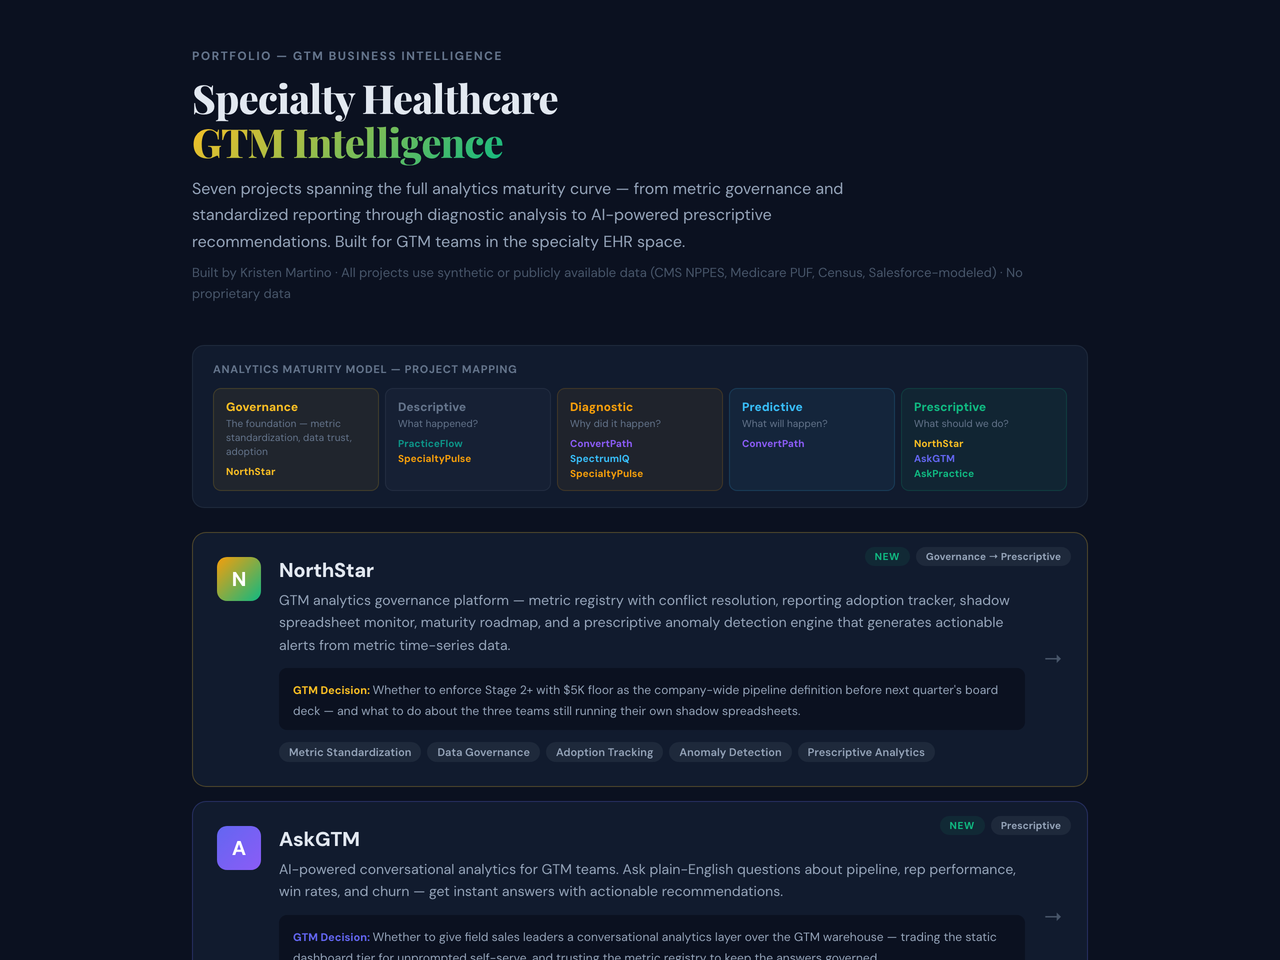
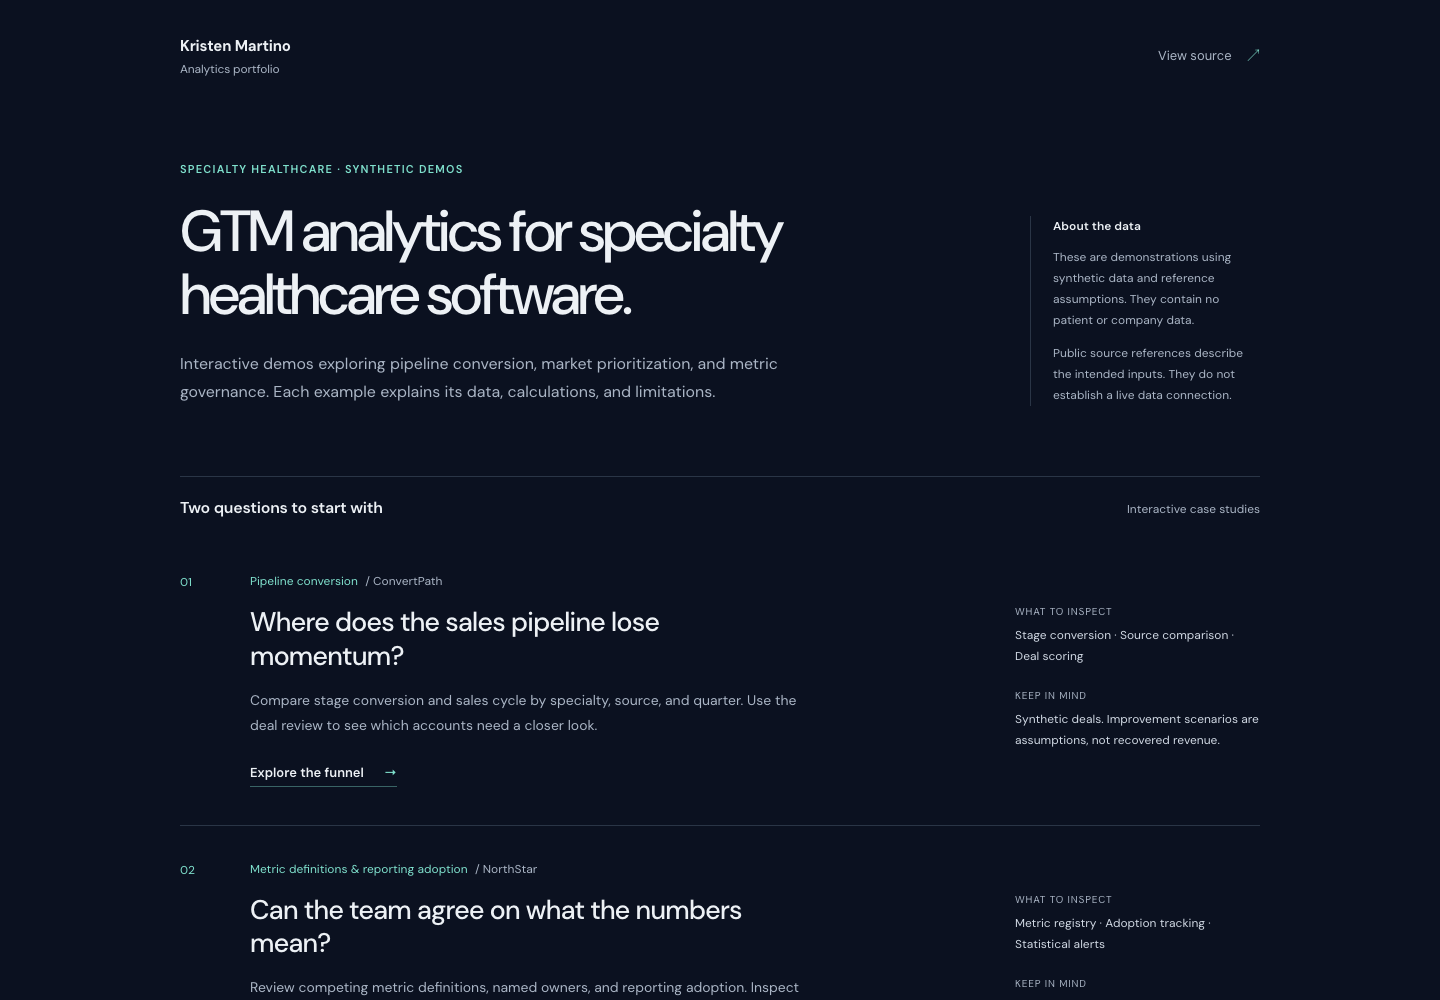
Clarify GTM data provenance and Orrery scoring

diff --git a/src/content/work.ts b/src/content/work.ts
@@ -281,7 +281,7 @@ export const projects: Project[] = [
     title: "GTM Healthcare Intelligence",
     category: "Healthcare GTM Analytics",
     summary:
-      "A collection of seven analytics projects for specialty healthcare sales and marketing, using synthetic and public data. Includes sales-funnel analysis, market comparisons, practice benchmarks, shared metric definitions, and AI tools for asking questions about the data.",
+      "Two sales and reporting review workflows, supported by five smaller analytics demos. Uses synthetic scenarios and embedded reference values to explore funnel conversion, metric definitions, market comparisons, and practice-level questions.",
     href: "/work/gtm-healthcare",
     slug: "gtm-healthcare",
     liveHref: "https://gtm.kristenmartino.ai",
@@ -291,20 +291,20 @@ export const projects: Project[] = [
     shape: "data-viz",
     image: "/work/gtm-healthcare.png",
     imageAlt:
-      "GTM Healthcare Intelligence — the analytics maturity model mapping seven GTM sub-projects across governance, descriptive, diagnostic, and prescriptive layers, above the NorthStar and AskGTM project cards.",
+      "GTM Healthcare Intelligence — the current homepage introduces the ConvertPath and NorthStar reviews beside a note explaining the synthetic data and reference assumptions.",
     metrics: [
-      "7 demos · synthetic and public data",
-      "CMS NPPES · Medicare PUF · Census",
-      "L2 logistic regression",
+      "2 review workflows · 5 supporting demos",
+      "Synthetic scenarios · reference assumptions",
+      "Calculated answers · Claude fallback for GTM",
       "React · Next.js · Python · Claude API",
     ],
     },
   {
     index: "12",
     title: "Orrery",
-    category: "Decision Support + AI",
+    category: "Astrological Timing",
     summary:
-      "An astrology-based planning tool for comparing dates and times for launches, pitches, and other events. Calculates celestial positions, applies published astrological rules, and uses AI to explain its timing scores.",
+      "An astrology-based date-comparison tool that computes planetary positions and ranks windows using fixed astrological rules. Each score is tied to the computed conditions; optional AI selects explanations from server-written facts. The scores describe those conventions, not validated probabilities of success.",
     href: "https://orrery.day",
     year: "2026",
     status: "Shipped",
